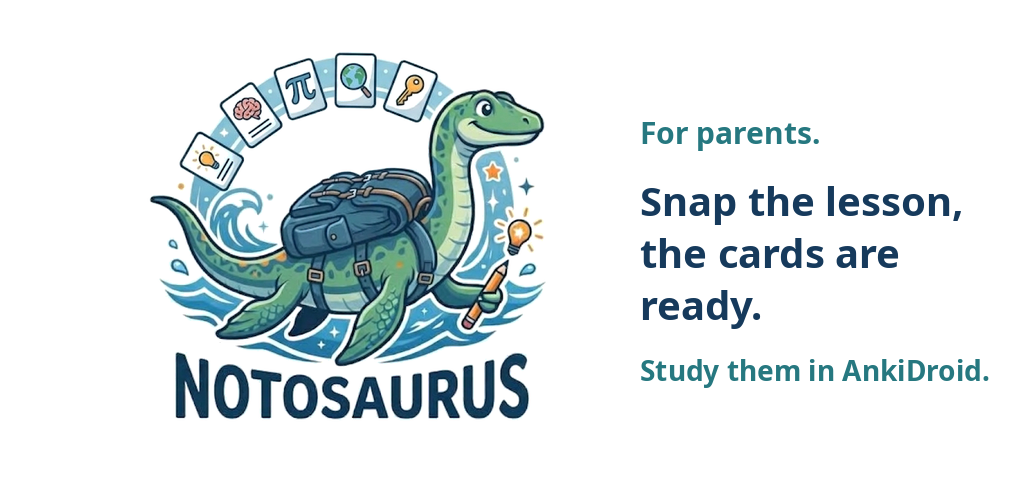
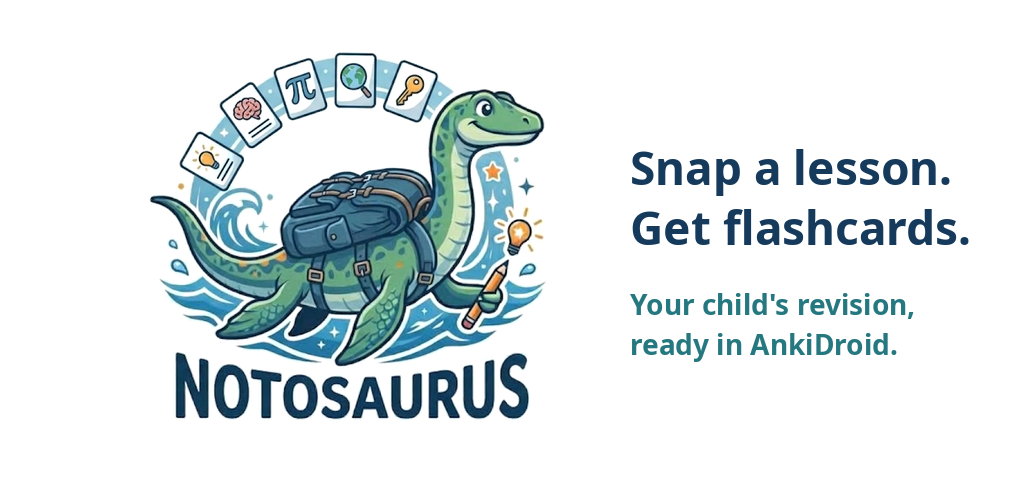
🖼 The feature graphic: "Snap a lesson. Get flashcards.", the parent told so in plain words
"For parents." read as a label put on: "Your child's revision, ready in AnkiDroid." says it to the parent. French: « Une leçon en photo. Des cartes à réviser. Les révisions de votre enfant, prêtes dans AnkiDroid. », the headline sized to fit beside the logo.

Changed region(s): [[0.5938, 0.24, 0.9375, 0.54], [0.5938, 0.57, 0.9688, 0.78]]

diff --git a/android/README.md b/android/README.md
@@ -86,8 +86,9 @@ The Google Play listing's graphics are in `play/`: `icon-512.png`, the 512 px ic
 Play Console asks for (a 32-bit PNG), made from the icon drawn large (`assets/notosaurus-icon-1024.jpg`) by
 `tools/make_icons.py`.
 `feature-en-1024x500.png` and `feature-fr-1024x500.png` are the listing's feature graphic
-(English, the default listing; French, its fr-FR translation): the logo, and who it is for
-first ("For parents."), as the target audience declared is 18 and over.
+(English, the default listing; French, its fr-FR translation): the logo, "Snap a lesson.
+Get flashcards.", and who it is for in plain words, "Your child's revision, ready in
+AnkiDroid." (the target audience declared is 18 and over).
 
 ```sh
 ./gradlew testDebugUnitTest   # the tests (JVM: no phone needed)
